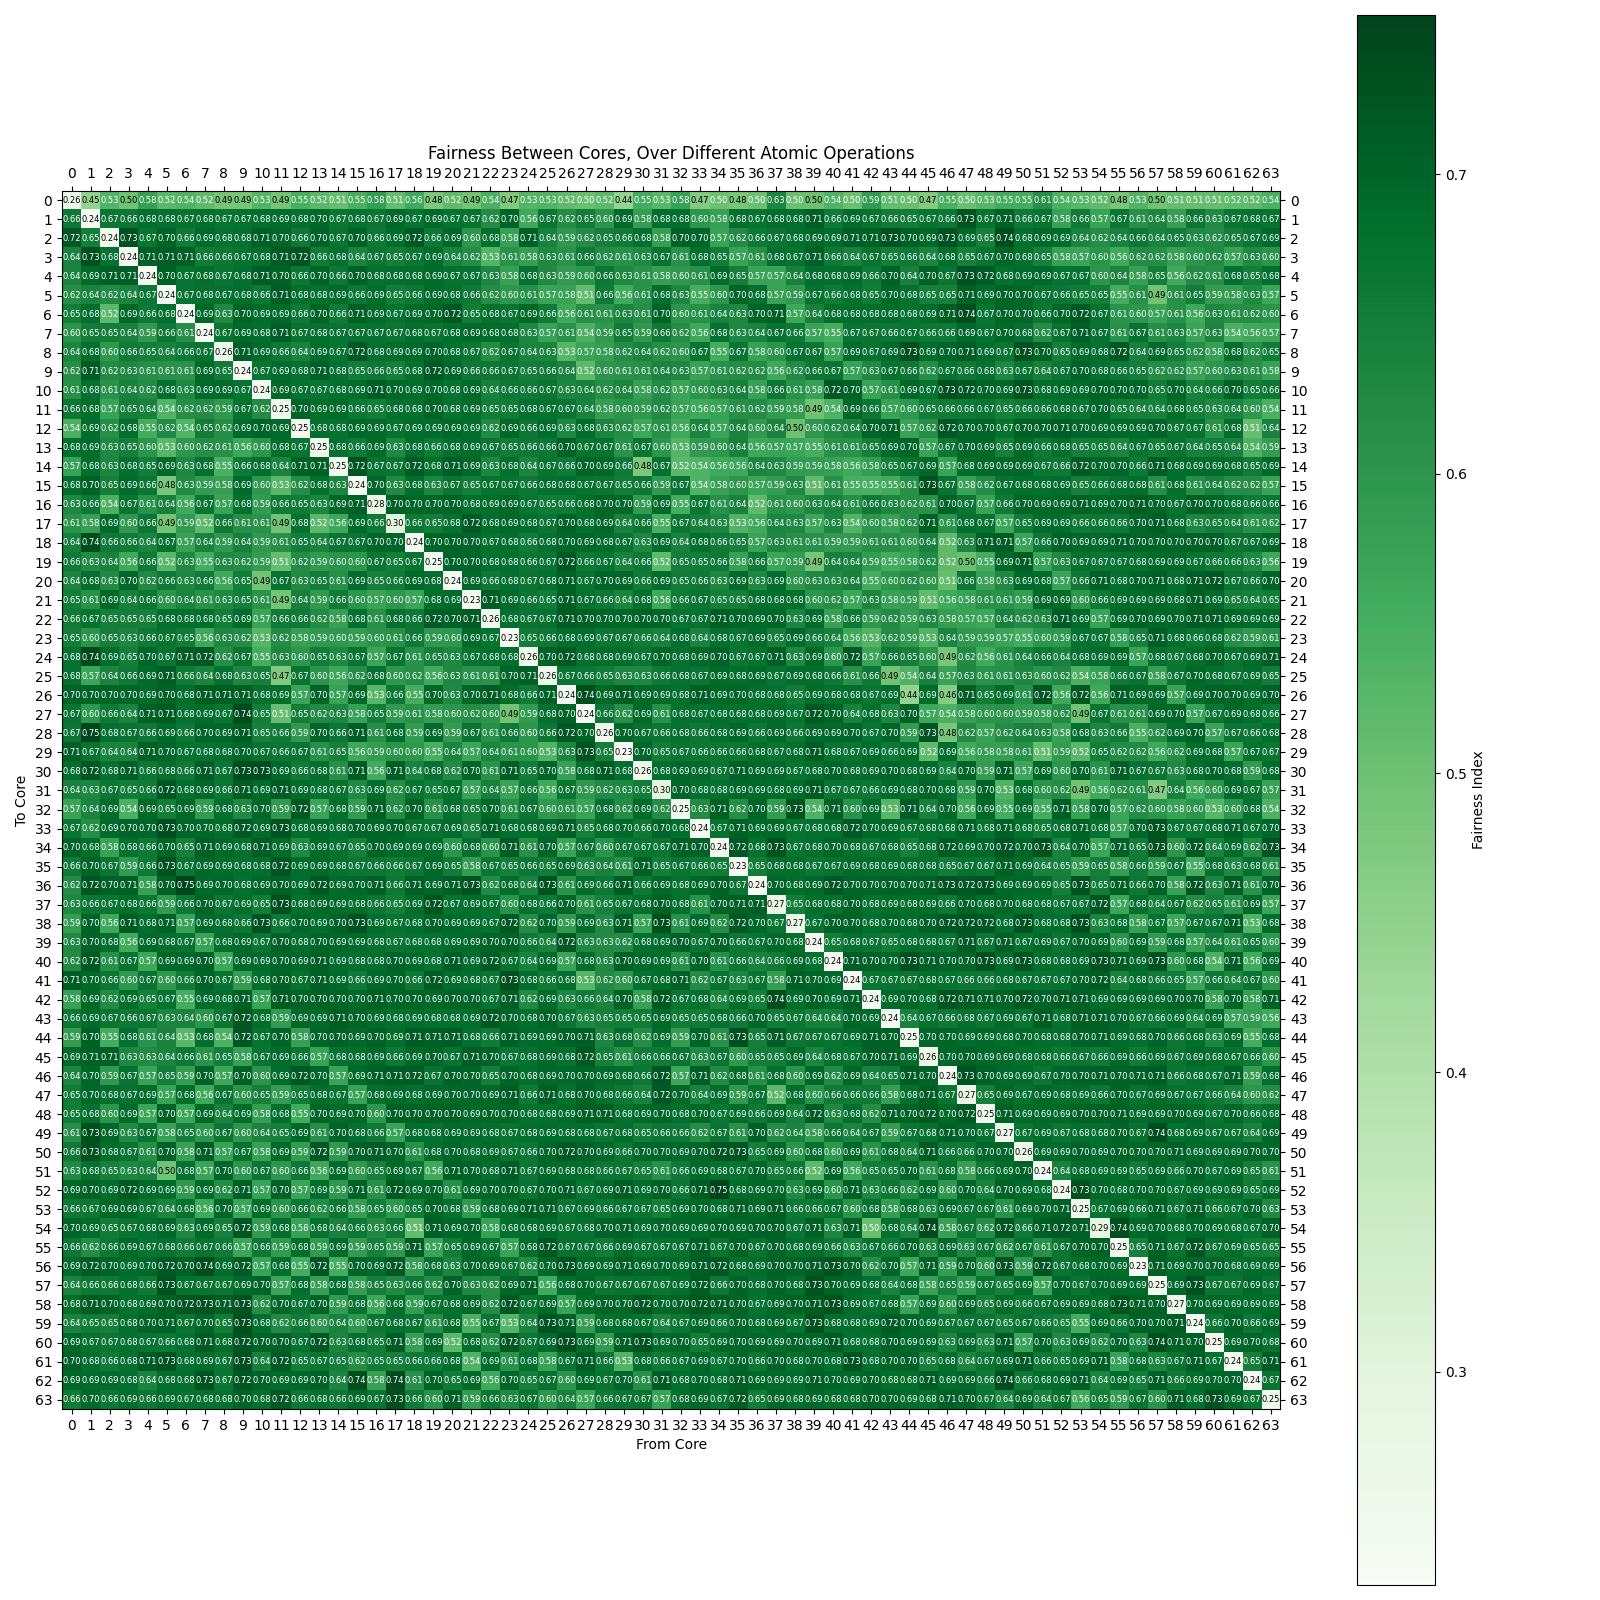
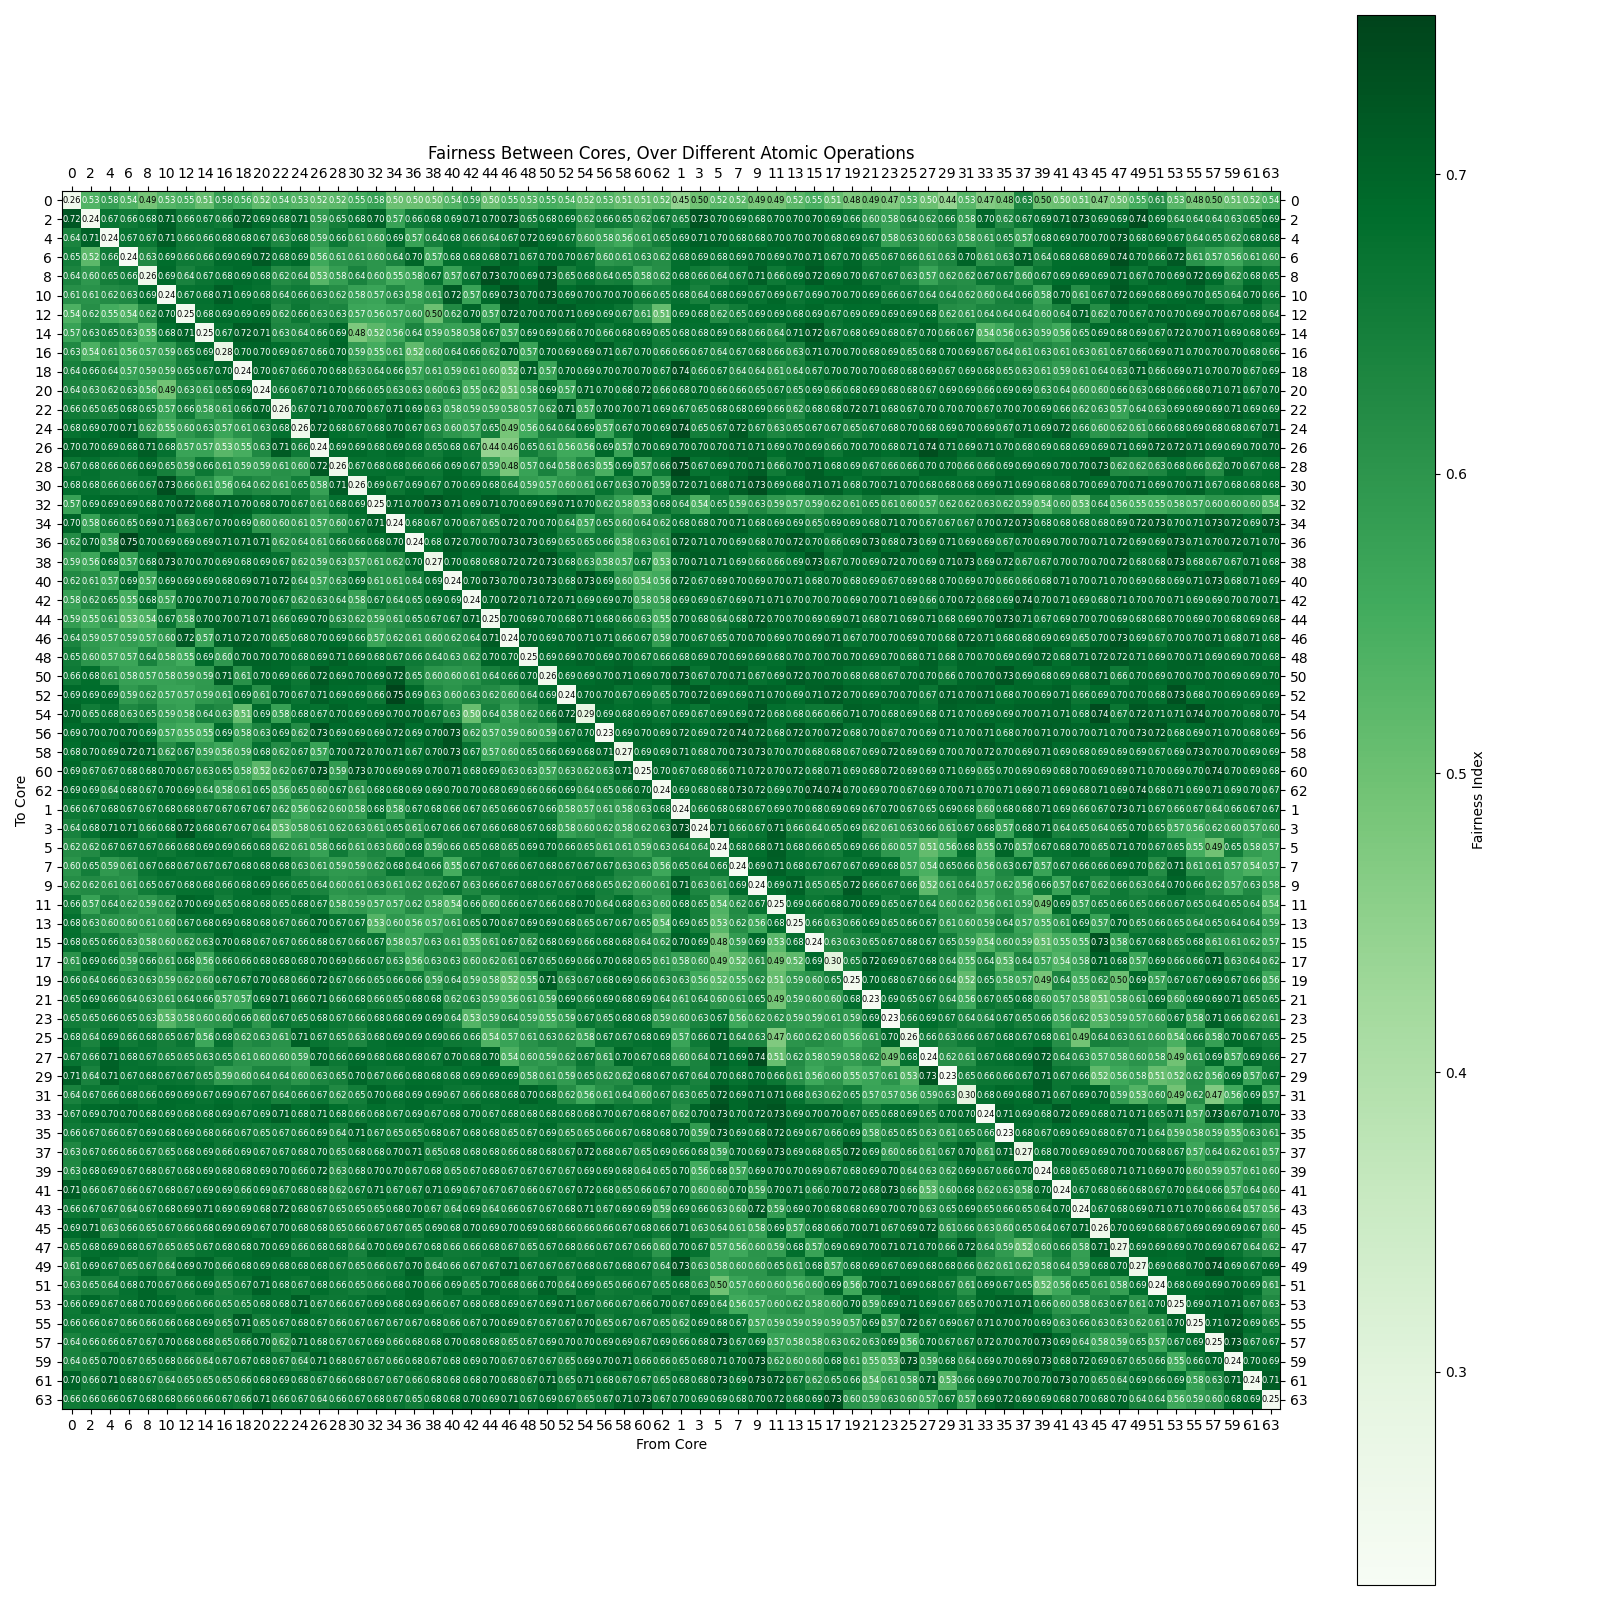
fix core placements on graphs

Changed region(s): [[0.0, 0.0938, 0.8125, 0.9062]]

diff --git a/benchmarks/fairness.py b/benchmarks/fairness.py
@@ -91,6 +91,21 @@ def benchmark_core_placement():
     # visualise fairness
     grid = from_to_fairness.pivot(index="to_core", columns="from_core", values="fairness")
 
+    # reorder cores: even first, then odd
+    cols = list(grid.columns)
+    rows = list(grid.index)
+
+    even_cols = [c for c in cols if c % 2 == 0]
+    odd_cols  = [c for c in cols if c % 2 == 1]
+    new_col_order = even_cols + odd_cols
+
+    even_rows = [r for r in rows if r % 2 == 0]
+    odd_rows  = [r for r in rows if r % 2 == 1]
+    new_row_order = even_rows + odd_rows
+
+    grid = grid.reindex(index=new_row_order, columns=new_col_order)
+
+
     cell_size = 0.25  # inches per cell
     fig, ax = plt.subplots(figsize=(cell_size * grid.shape[1],
                                     cell_size * grid.shape[0]))
@@ -130,14 +145,26 @@ def benchmark_core_placement():
     plt.savefig("./figs/from_to_fairness.png")
 
 
-def heatmap_fai_raw():
+def visualise_latency():
     for test_name in df["test"].unique():
-        fai = df[df["test"] == "FAI"]
-        if fai.empty:
-            print("No FAI rows found.")
-            return
+        test_table = df[df["test"] == test_name]
 
-        grid = fai.pivot(index="to_core", columns="from_core", values="avg_latency")
+        grid = test_table.pivot(index="to_core", columns="from_core", values="avg_latency")
+
+        # reorder cores: even first, then odd
+        cols = list(grid.columns)
+        rows = list(grid.index)
+
+        even_cols = [c for c in cols if c % 2 == 0]
+        odd_cols  = [c for c in cols if c % 2 == 1]
+        new_col_order = even_cols + odd_cols
+
+        even_rows = [r for r in rows if r % 2 == 0]
+        odd_rows  = [r for r in rows if r % 2 == 1]
+        new_row_order = even_rows + odd_rows
+
+        # apply the new order
+        grid = grid.reindex(index=new_row_order, columns=new_col_order)
 
         # use big figure so 64×64 stays readable
         fig, ax = plt.subplots(figsize=(18, 18))
@@ -169,17 +196,18 @@ def heatmap_fai_raw():
 
         ax.set_xlabel("From Core")
         ax.set_ylabel("To Core")
-        ax.set_title("FAI Raw Avg Latency")
+        ax.set_title(f"{test_name} Raw Avg Latency")
 
         fig.tight_layout()
         plt.savefig(f"./figs/spam/{test_name}_raw_latency.png", dpi=600)
+        plt.close(fig)
         print(f"{test_name} is done")
 
 
 
 
-benchmark_tests()
+#benchmark_tests()
 print("\n")
-benchmark_core_placement()
-heatmap_fai_raw()
+#benchmark_core_placement()
+visualise_latency()
 
